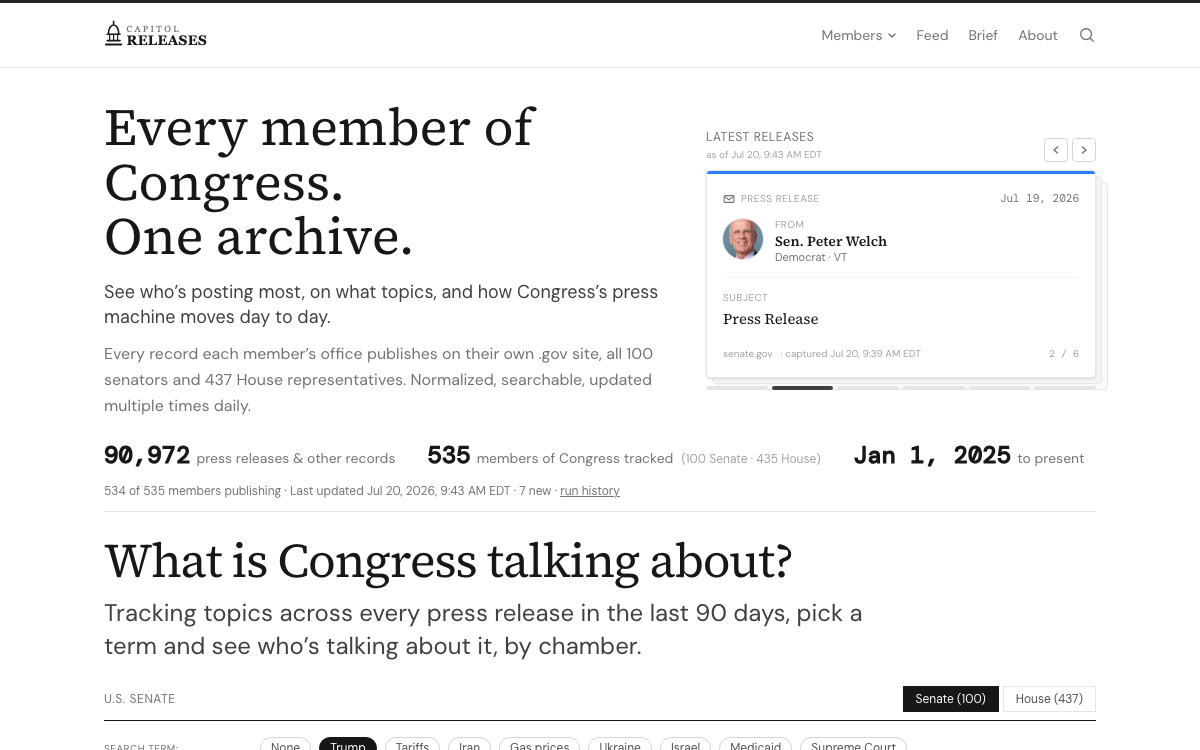
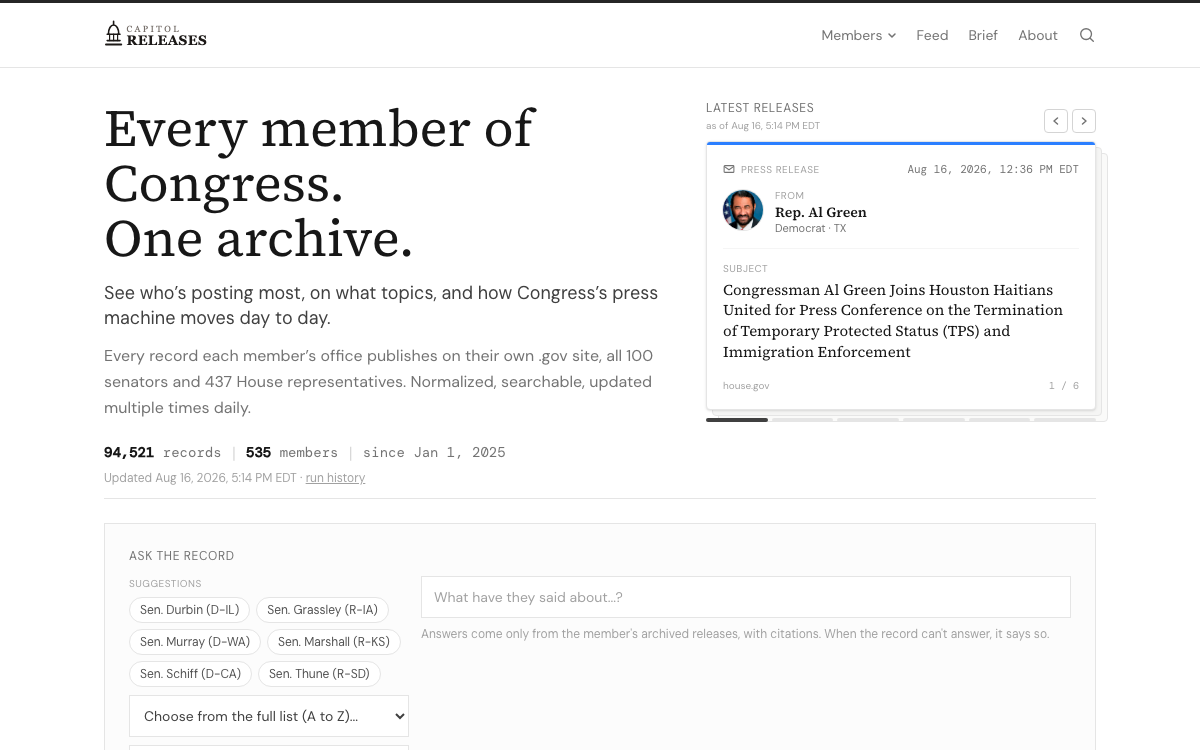
Surface the Ask AI features on Capitol Releases and Delegation Decoded cards; fresh home-UI screenshots; News Pulse 668 sources; real README

diff --git a/content/demos.js b/content/demos.js
@@ -7,16 +7,17 @@ export const demoProjects = [
     slug: "delegation-decoded",
     subtitle: "Congressional Accountability, Organized by State Delegation",
     oneLiner: [
-      "Congressional tracker for all 535 voting members organized by state delegation — votes, bills, committees and campaign money pulled from official federal data sources into one Postgres schema.",
-      "House STOCK Act PDFs cracked with Claude Sonnet 4.6 vision — 4,800+ trades parsed at 99.95% above the 80% confidence floor, with bogus-ticker filtering and a fallback enrichment pass.",
+      "Congressional tracker for all 535 voting members organized by state delegation — votes, bills, committees, campaign money, stock trades and 2026 races pulled from official federal data into one Postgres schema.",
+      "Ask, a grounded AI assistant, fronts the homepage and lives on every state, member and race page. It answers only from the site's own database, and every claim carries a citation validated server-side against the records actually retrieved.",
     ],
     highlights: [
+      "Ask — grounded Q&A on the homepage and every state, member and race page, with server-validated citations",
+      "Moderation screen, per-IP and global spend budgets and a 90-day audit log on every Ask request",
       "535 voting members across 50 state delegations — 537 tracked with delegates",
-      "Four federal data sources unified in one Postgres schema",
       "4,800+ STOCK Act trades from 300+ filings (House PDFs + Senate HTML)",
-      "Claude Sonnet 4.6 vision parsing of scanned House PTR PDFs",
-      "Idempotent ingestion with live sync log + /health endpoint",
-      "Dedicated /for-journalists page with downloads and citation language",
+      "Vision-model parsing of scanned House PTR PDFs — rows below the 80% confidence floor get a warning badge, not hidden",
+      "2026 race pages cross-checked against state election authorities where adapters exist",
+      "Dedicated /for-journalists page with bulk CSV downloads and citation language",
     ],
     technologies: [
       "Next.js 16",
@@ -25,6 +26,7 @@ export const demoProjects = [
       "PostgreSQL (Neon)",
       "Drizzle ORM",
       "Anthropic API",
+      "OpenAI API",
       "Tailwind CSS",
     ],
     screenshots: {
@@ -33,8 +35,8 @@ export const demoProjects = [
       mobileLight: "/images/demos/delegation-decoded-mobile-light.png",
       mobileDark: null,
     },
-    displayUrl: "delegation-decoded.vercel.app",
-    siteLink: "https://delegation-decoded.vercel.app",
+    displayUrl: "delegationdecoded.org",
+    siteLink: "https://delegationdecoded.org",
     githubLink: "https://github.com/tbrown034/delegation-decoded",
     arcadeLink: null,
   },
@@ -82,15 +84,16 @@ export const demoProjects = [
     subtitle: "Congressional Press Release Archive — Updated 4x Daily",
     oneLiner: [
       "Archival-grade database of every press release from all 535 members of Congress since January 2025 — 90,000+ records, four daily updates, deletion tombstones, public run history.",
-      "Mixed-collector pipeline (httpx + Playwright + RSS) handles hundreds of different congressional web setups. Per-member coverage and per-CMS date-parse accuracy documented openly.",
+      "Ask the record, retrieval-augmented Q&A grounded in each member's own releases, fronts the homepage — alongside an AI-drafted daily brief where every claim cites back to a source record.",
     ],
     highlights: [
+      "Ask the record — RAG Q&A over a member's collected releases with server-validated citations; an answer that cites outside its retrieval set is discarded, not repaired",
+      "AI-drafted daily brief with every claim cited to source records — AI never writes to the corpus",
       "90,000+ records from all 535 members of Congress since Jan 1, 2025",
       "Covers both chambers — 100 Senate and 435 House offices",
       "Four daily refreshes with public run history at /status",
       "Deletion tombstones and provenance tracking on every record",
       "Mixed httpx / Playwright / RSS collectors across both chambers",
-      "Postgres tsvector full-text search across the full archive",
     ],
     technologies: [
       "Next.js",
@@ -98,9 +101,11 @@ export const demoProjects = [
       "TypeScript",
       "Python",
       "PostgreSQL (Neon)",
+      "pgvector",
       "Playwright",
       "GitHub Actions",
       "Anthropic API",
+      "OpenAI API",
     ],
     screenshots: {
       desktopLight: "/images/demos/capitol-releases-desktop-light.png",
@@ -224,14 +229,14 @@ export const demoProjects = [
     slug: "news-pulse",
     subtitle: "Open-Source News Monitor",
     oneLiner: [
-      "Real-time global news monitor for journalists and OSINT analysts — 475 vetted sources across Bluesky, RSS, Telegram, Reddit, YouTube and Mastodon, surfaced through frequency-based surge detection rather than engagement ranking.",
-      "Six-region world clock with independent activity baselines. Three-tier Claude summaries (Haiku / Sonnet / Opus) clearly labeled, with prompts published openly.",
+      "Real-time global news monitor for journalists and OSINT analysts — 668 vetted sources across Bluesky, RSS, Telegram, Reddit, YouTube and Mastodon, surfaced through frequency-based surge detection rather than engagement ranking.",
+      "Six-region world clock with independent activity baselines. Three-tier Claude summaries (Haiku / Sonnet / Opus) clearly labeled, with methodology documented openly.",
     ],
     highlights: [
-      "475 vetted sources across six platforms",
+      "668 vetted sources across six platforms",
       "Surge detection — flags ≥2× and ≥4× spikes against rolling baselines",
       "Six independent regional baselines (US, LATAM, ME, Europe-Russia, Asia)",
-      "Three-tier Claude summaries with model labels and visible prompts",
+      "Three-tier Claude summaries with model labels and documented methodology",
       "Geospatial overlays — USGS, NOAA, NASA FIRMS, GDACS, State Dept",
       "Tiered fetch architecture — T1 critical first, T2/T3 async",
     ],

diff --git a/app/about/components/ResumePage.jsx b/app/about/components/ResumePage.jsx
@@ -280,17 +280,17 @@ export default function ResumeComponentResponsive({ showGuides = false }) {
                   <Project
                     name="Delegation Decoded (2026)"
                     tech="Next.js, TypeScript, PostgreSQL, Drizzle ORM, Anthropic API"
-                    description="Congressional accountability platform tracking all 535 voting members by state delegation. AI-vision parsing of House STOCK Act PDFs at 99.95% confidence"
+                    description="Congressional accountability platform tracking all 535 voting members by state delegation. Grounded Ask assistant answers from the site's own records with server-validated citations"
                   />
                   <Project
                     name="Capitol Releases (2025–2026)"
                     tech="Next.js, TypeScript, PostgreSQL, Python, Playwright"
-                    description="Archival-grade congressional press release database. 90,000+ records from all 535 members of Congress, four daily updates, deletion tombstones, public run history"
+                    description="Archival-grade congressional press release database. 90,000+ records from all 535 members of Congress, RAG-grounded Ask the record Q&A with cited answers, four daily updates"
                   />
                   <Project
                     name="News Pulse (2025–2026)"
                     tech="Next.js, TypeScript, PostgreSQL, Anthropic API"
-                    description="Open-source news monitor. 475 vetted sources across Bluesky, RSS, Telegram, Reddit, YouTube and Mastodon, surfaced through frequency-based surge detection"
+                    description="Open-source news monitor. 668 vetted sources across Bluesky, RSS, Telegram, Reddit, YouTube and Mastodon, surfaced through frequency-based surge detection"
                   />
                   <div style={{ fontSize: '8pt', color: '#555', fontStyle: 'italic', borderTop: '1px solid #ccc', paddingTop: '2pt', marginTop: '1pt' }}>
                     Full portfolio at trevorthewebdeveloper.com/projects

diff --git a/README.md b/README.md
@@ -1,37 +1,22 @@
-This is a [Next.js](https://nextjs.org/) project bootstrapped with [`create-next-app`](https://github.com/vercel/next.js/tree/canary/packages/create-next-app).
+# trevorthewebdeveloper.com
 
-## Getting Started
+Portfolio site for Trevor Brown — investigative journalist turned developer. Fifteen years covering elections, government and public policy across four states; now building production web applications and data pipelines.
 
-First, run the development server:
+Live at [trevorthewebdeveloper.com](https://trevorthewebdeveloper.com).
+
+## What's on it
+
+- **Projects** — civic-tech and newsroom tools, each with live links: [Delegation Decoded](https://delegationdecoded.org), [Open Cabinet](https://open-cabinet.org), [Capitol Releases](https://capitolreleases.com), [FOIA Tracker](https://foiatracker.org), [News Pulse](https://news-pulse.org), [Still in the Loop](https://www.stillintheloop.com) and a production dental practice site.
+- **Journalism** — selected investigations and data visualizations from Oklahoma Watch and the Wyoming Tribune Eagle, with embedded Tableau and Datawrapper graphics.
+- **About** — the full story of the newsroom-to-code transition, plus a rendered, printable resume.
+
+## Stack
+
+Next.js (App Router), React, Tailwind CSS. Deployed on Vercel. Project content is data-driven from `content/demos.js`; the embedded resume renders as a fixed letter-size document in `app/about/components/ResumePage.jsx`.
+
+## Run it
 
 ```bash
-npm run dev
-# or
-yarn dev
-# or
+pnpm install
 pnpm dev
 ```
-
-Open [http://localhost:3000](http://localhost:3000) with your browser to see the result.
-
-You can start editing the page by modifying `app/page.js`. The page auto-updates as you edit the file.
-
-This project uses [`next/font`](https://nextjs.org/docs/basic-features/font-optimization) to automatically optimize and load Inter, a custom Google Font.
-
-## Learn More
-
-To learn more about Next.js, take a look at the following resources:
-
-- [Next.js Documentation](https://nextjs.org/docs) - learn about Next.js features and API.
-- [Learn Next.js](https://nextjs.org/learn) - an interactive Next.js tutorial.
-
-You can check out [the Next.js GitHub repository](https://github.com/vercel/next.js/) - your feedback and contributions are welcome!
-
-## Deploy on Vercel
-
-The easiest way to deploy your Next.js app is to use the [Vercel Platform](https://vercel.com/new?utm_medium=default-template&filter=next.js&utm_source=create-next-app&utm_campaign=create-next-app-readme) from the creators of Next.js.
-
-Check out our [Next.js deployment documentation](https://nextjs.org/docs/deployment) for more details.
-# my-portfolio
-
-<!-- Project reorganization test: 2026-01-08 -->
